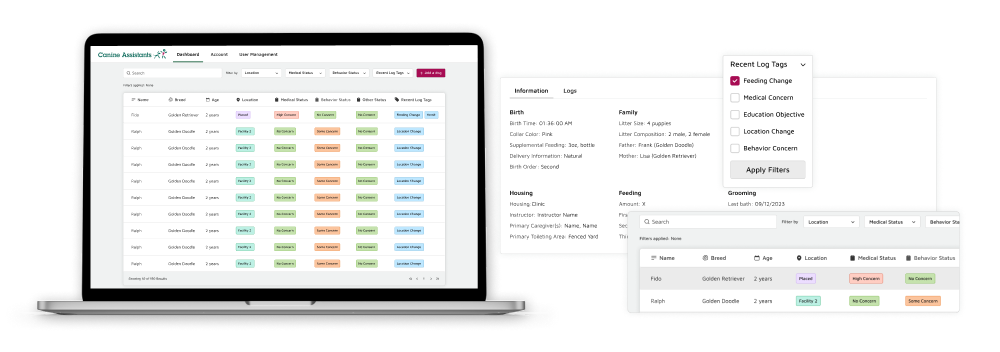
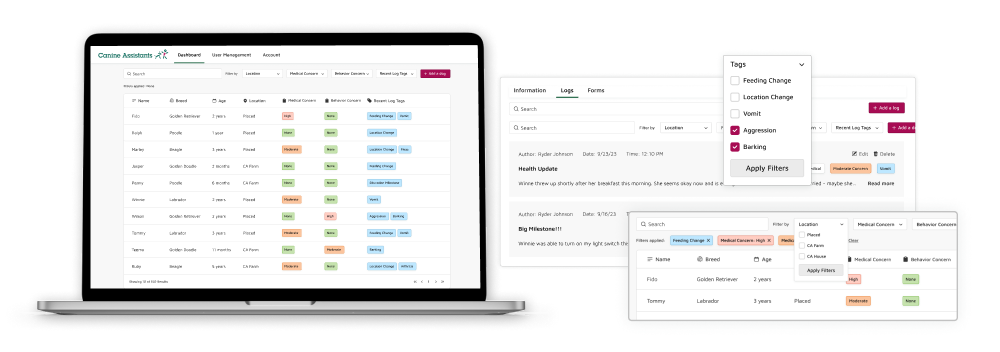
adding bog dogs proj!

diff --git a/bits.html b/bits.html
@@ -34,7 +34,7 @@
           </div>
         <div class="project-section reveal">
           <h3>Contribution Note</h3>
-          <p>For this project, user research was conducted collaboratively with another designer, while I was responsible for the design system, branding, and creating all components. We then split design tasks per user flow - all of the prototype screens and research artifacts shown here are my individual work, unless noted. Features and components I did not create are excluded or clearly marked to show my contribution. </p>
+          <p>For this project, user research was conducted collaboratively with another designer, while I was responsible for the design system, branding, and creating all components. We then split design tasks per user flow - I was responsible for the dashboard interactions, adding a new dog, viewing forms, and the individual dog view. My (very talented!) design partner Hemadri created the adding a log flow, but all other designs shown here are my individual work.</p>
         </div>
         <div class="project-section reveal">
           <h3>Context</h3>
@@ -46,24 +46,14 @@
           <p>Canine Assistants has only a few scattered paper records of the dogs currently in their care, and those they've raised and placed in homes and hospitals across the country. They want to keep track of them, keep in contact with the dogs' new owners, monitor their health, and track long-term trends across their population of graduated dogs.</p>
           <h4>How might we track a service dog's medical, behavioral, and educational history over years of location and caretaker changes? </h4>
         </div>
-        <!--
+        
         <div class="project-section">
           <h3>The Solution</h3>
           <h4>By building a database of comprehensive chronological records, contributed by all the dog's caretakers in standardized, filterable updates.</h4>
+          <img src="bits/intro.png">
+          <img src="bits/intro2.png">
         </div>
-        <div class="keebl-columns">
-          <div class="pcol"> <img src="keeb/aggr.png"></div>
-          <div clas="pcol"> <h4> Search and filter by location, behavior, age, and more</h4> </div>
-        </div>
-        <div class="keebr-columns">
-          <div clas="pcol"> <h4> Consolidated information added by caretakers, instructors, and vets </h4> </div>
-          <div class="pcol"> <img src="keeb/educate.png"></div>
-        </div>
-        <div class="keebl-columns">
-          <div class="pcol"> <img src="keeb/decisionmaking.png"></div>
-          <div clas="pcol"> <h4> Notifying administrators of urgent concerns </h4> </div>
-        </div>
-      -->
+
         <div class="divider"></div>
         <div class="project-section reveal">
           <h3>01 Understanding Product & User Needs</h3>
@@ -72,39 +62,58 @@
           <img src="bits/userstories.png">
         </div>
         <div class="project-section reveal">
-          <h3>02 Concept Iteration & Wireframing</h3>
-          <p>With our tight workflow of keeping design 2 weeks ahead of the development team, I continued user research while building out the basic dashboard. Through continued interviews, I learned more about the needs of our individual user groups.</p>
+          <h3>02 Basic Features</h3>
+          <p>So, the clear initial goal of our project was to build a database of the dogs in their care, with key information about their health and behavior.</p>
+        <div class="keebr-columns">
+          <div class="pcol"> <h4>Find records with search, sort, and filtering dogs. </h4> </div>
+          <div class="pcol"> <img src="bits/dashboard.gif"></div>
+        </div>
+        <div class="keebl-columns">
+          <div class="pcol"> <img src="bits/add.gif"></div>
+          <div class="pcol"> <h4>Easily add new dogs to the database.</h4> </div>
+        </div>
+        </div>
+        <div class="project-section reveal">
+          <h3>03 Insight: Many sources of information</h3>
+          <p> Through continued interviews, I learned more about the needs of our individual user groups.</p>
           <h4>Aftercare coordinators are bombarded with concerns by anxious new recipients, and have to contact 5+ past caretakers for their records to get a better understanding of the dog’s past.</h4>
           <img src="bits/records.png">
-          <h4>So, we created the chronological log system, to be used across the dog's lifetime by every carer that interacts with it. </h4>
+          <h4> So, we created the chronological log system to consolidate all these sources and records, contributed to by every carer the dog has. </h4>
         <div class="keebl-columns">
-          <div class="pcol"> <img src="bits/cawip.gif"> </div>
-          <div clas="pcol"> <h4> With tagging, filtering, and search, the records are in one place and easily discoverable as needed. </h4>
+          <div class="pcol"> <img src="bits/logs.gif"> </div>
+          <div class="pcol"> <h4> Logs track the dog's health, behavior, and educational progress.  </h4>
           </div>
         </div>
-          
+        <div class="project-section reveal">
+          <h3>04 Insight: Different access for different user types</h3>
+          <p> Speaking with the Canine Assistants dog educators, we learned that certain information in a dog’s history can bias or mislead their future partners. For example, a volunteer's dramatic record of a single conflict with another dog can cause a service dog's partner to excessively worry about aggressive behavior, even when a dog no longer exhibits any. Canine Assistants doesn’t want any issues in a service dog’s adolescence to impact the relationship with their partner.</p>
+          <h4> So, we created distinct roles and permissions, allowing users to see only recent and pertinent information on their assigned dog(s).</h4>
+        <div class="keebr-columns">
+          <div class="pcol"> <h4>Differentiated user roles and access levels.</h4> </div>
+          <div class="pcol"> <img src="bits/usermanagement.gif"></div>
+        </div>
         </div>
         <div class="project-section reveal">
-          <h3>03 More to come (●'◡'●)ノ</h3>
-          <h4> 🚧 This project is a work in progress over Fall 2023! 🚧 </h4>
+          <h3>05 Insight: Standardizing data collection</h3>
+          <p>Canine Assistants' long-term goal is to study and improve dog training techniques, and understand health trends in service dogs. To standardize their data collection, we built out their periodic report system with all the information they care about in numerical, multiple-choice format.</p>
+          <h4></h4>
+        <div class="keebl-columns">
+          <div class="pcol"> <img src="bits/forms.gif"></div>
+          <div class="pcol"> <h4>Standardize data collection with monthly check-in forms.</h4> </div>
         </div>
-        <!--
-        <div class="project-section reveal">
-          <h3>04 Final Product</h3>
-          <h4>My team successfully built out the ksdjksdj</h4>
-          <p>awooga</p>
-      </div>
+        </div>
         <div class="project-section reveal">
           <h3>05 Next Steps</h3>
-          <h4>osability testing</h4>
-          <p>awooga</p>
+          <p>The Canine Assistants project will be carried into next semester and beyond, with a new team of designers and developers continuing to add functionality and iterate improvements on our MVP. To help this along, I organized the design system I created with annotations on use cases and guidelines. And, while we didn't have time for usability testing this semester, I provided an outline of task scenarios to test for next year's designer.</p>
       </div>
         <div class="project-section reveal">
-          <h3>06 Reflection</h3>
-          <h4>cute teambuilding pics xd</h4>
-          <p>awooga</p>
+          <h3>06 Learnings ✨</h3>
+          <h4>1. Figma skills</h4>
+          <p>The intricacies of components, variants, variables, styles, and autolayout! I logged a ton of practice with advanced design and prototyping in Figma, and grew a special appreciation for the power of using  components across the entire design process 😊</p>
+          <h4>2. Collaboration >> Handoff</h4>
+          <p>There doesn’t have to be a strict design → developer “handoff” if it’s a collaborative effort across the board! I had a fantastic team in our PM, EM, and developers, and including them in our synthesis of research findings, sketching of features, and early wireframe iterations helped ensure we met each teams’ goals and designed a feasible, scalable product.</p>
+          <img src="bits/dawgs.png">
       </div>
-        -->
         <div class="project-section">
           <p style="text-align: center;"> Up next: <s style="color: var(--subtle);">Bits of Good</s> / <a href="oracle.html">Oracle</a>  / <a href="ns.html">Norfolk Southern</a> / <a href="keeb.html">Keeb</a> / <a href="spence.html">Spence</a> </p>
         </div>

diff --git a/me.html b/me.html
@@ -29,9 +29,12 @@
           </div>
            <div class="column1">
           <h2>hi again! i'm evie</h2>
-          <p>a product and user experience designer completing my degree in industrial design. i’m fascinated by the way software pervades our lives and livelihoods today, and love that i get to impact that experience with design 💖</p>
-          <p><b>what's new —</b><br> 🐝 graduating from georgia tech in december 2023! <br> 🔍 seeking full-time roles in <b>product and UX design </b></p>
-          <p><b> recently —</b>
+          <p>a product and user experience designer<!-- based in seattle-->. i’m fascinated by the way software pervades our lives and livelihoods today, and love that i get to impact that experience with design 💖</p>
+          <p><b>what's new —</b>          <br> 🐝 graduating from georgia tech in december 2023!
+            <!-- <br> 🔮 started as a full-time user experience designer @ oracle!  <br> -->
+            <!--🔍 seeking full-time roles in <b>product and UX design </b>--></p>
+          <p><b> previously —</b>
+          <!--<br> 🐝 graduated from georgia tech!-->
           <br> 👐 product designer @ <a href="bits.html" style="text-decoration: underline;">bits of good</a>
           <br> 🔮 user experience design intern @ <a href="oracle.html" style="text-decoration: underline;">oracle</a><br> 🚂 user experience design intern @ <a href="ns.html" style="text-decoration: underline;">norfolk southern</a></p>
           <!--  <br>📔 reading <i> life ceremonies </i> by sayaka murata <br> 🎧 listening to <i>pinegrove</i> <br> 🎮 playing <i>slay the spire</i> -->

diff --git a/index.html b/index.html
@@ -51,8 +51,7 @@
             <img src="ns/cover3.png" alt="Norfolk Southern internship cover image, with the Norfolk Southern logo and a blurred image of the design Evie worked on">
           </div>
         </div> </a>
-<!--    
-        <div class="spacer" id="first" ><a href="#first" style="color: var(--bodytext);"><h2>case studies ⬇</h2></a></div>
+        <!-- <div class="spacer" id="first" ><a href="#first" style="color: var(--bodytext);"><h2>case studies ⬇</h2></a></div>-->
         <a href="bits.html" id="bits"><div class="xp-card reveal">
           <div class="column1">
           <p>BITS OF GOOD - PRODUCT DESIGNER</p>
@@ -60,10 +59,10 @@
           <p>Fall 2023</p>
           </div>
           <div class="xp-image">
-            <img src="bits/cover2.png" alt="Bits of Good project for Canine Assistants cover image, with an in-context mockup of the dashboard landing page rendered on a Macbook Pro">
+            <img src="bits/cover.png" alt="Bits of Good project for Canine Assistants cover image, with an in-context mockup of the dashboard landing page rendered on a Macbook Pro">
           </div>
         </div> </a>
-      -->
+
         <a href="keeb.html"><div class="xp-card reveal" >
           <div class="column1">
           <p>GEORGIA TECH - JUNIOR STUDIO</p>

diff --git a/style.css b/style.css
@@ -37,6 +37,7 @@
   --mid: #C6C6E1;
   --light: #DBDBF1;
   --hover: #E2E2F1;
+  --width: 1000px;
 }
 
 /* actual white colors! 
@@ -132,7 +133,7 @@ a:hover {
   padding: 3vh;
   margin: 0 auto;
   overflow: hidden;
-  max-width: 1000px;
+  max-width: var(--width);
   font-family: karla, sans-serif;
 }
 
@@ -226,7 +227,7 @@ a:hover {
 
 /* Single-column layout with dividers */
 .container {
-  max-width: 1000px;
+  max-width: var(--width);
   width: 100%;
   margin: 0 auto;
   padding-top: 20px;
@@ -323,7 +324,7 @@ a:hover {
 
 /* Project Styles */
 .project-container {
-  max-width: 1000px;
+  max-width: var(--width);
   width: 100%;
   margin: 0 auto;
   position: relative;
